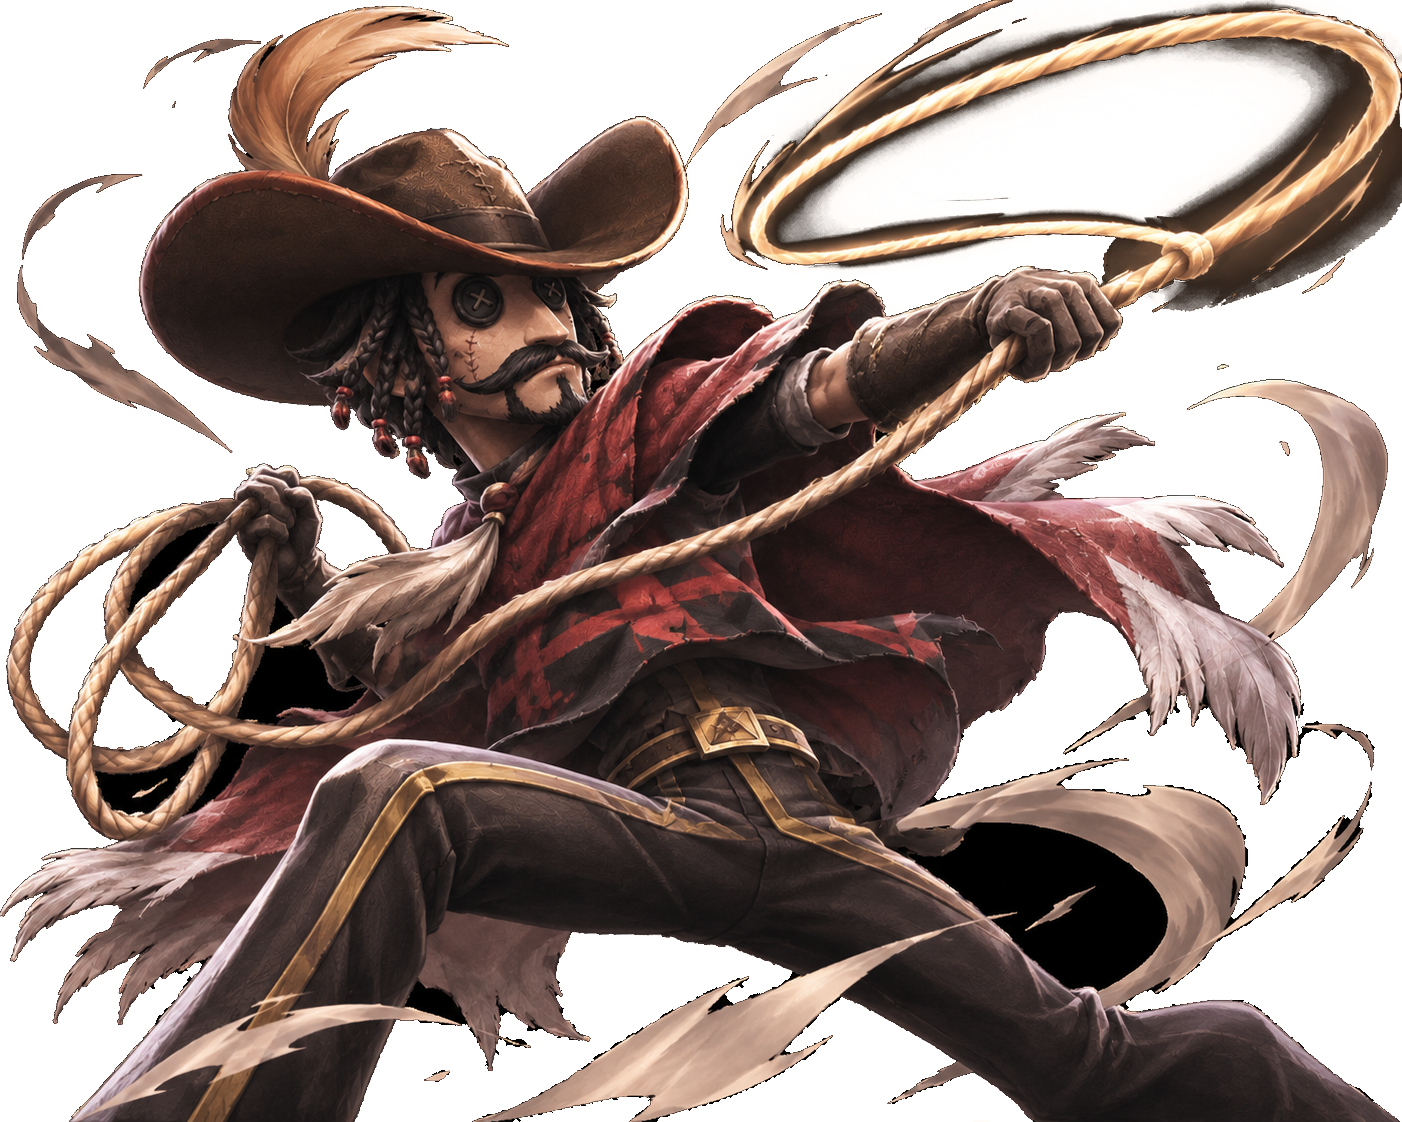
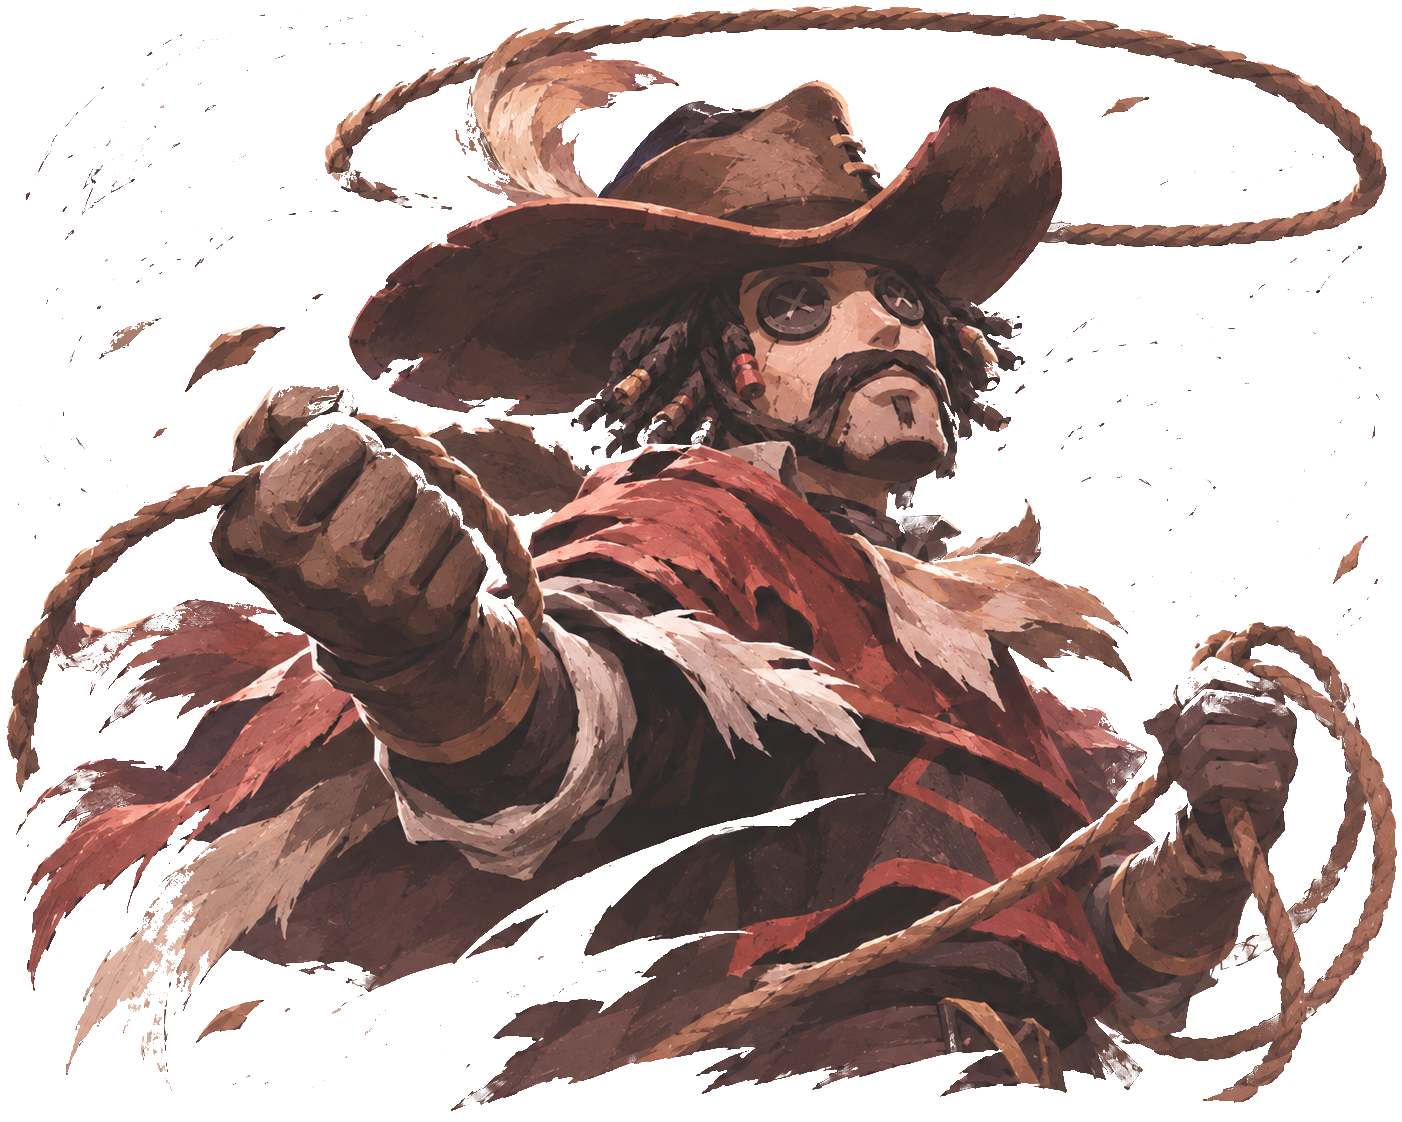
[FE] 카우보이 일러스트를 새 그림(원본 PNG)으로 바꿈 — 둘레에 날리는 흰 천 조각 효과는 빼고 누끼(IllustrationImporter StrongWhite: 더 세게 번지고 번진 곳은 색 없이 지움)

diff --git a/Assets/Scripts/UI/Editor/IllustrationImporter.cs b/Assets/Scripts/UI/Editor/IllustrationImporter.cs
@@ -14,6 +14,7 @@ namespace Project1.UI.Editor
         private const string Folder = "Assets/UI/Resources/Illustrations/";
 
         private static float SeedMin = 0.9f;  // 테두리에서 이 정도로 흰 픽셀부터 배경으로 본다
+        private static bool EraseFlooded; // true = 번진 배경을 색 없이 지움(StrongWhite 그림)
         private static float FloodMin = 0.45f; // 배경은 이보다 밝은 픽셀로만 번진다
         private static float FullMin = 0.8f;  // 이보다 밝으면 흰색을 완전히 뺀다(그 사이는 조금만)
         private static float MaxStep = 0.12f; // 이웃과 밝기 차가 이보다 크면(외곽선) 번지지 않는다
@@ -23,12 +24,13 @@ namespace Project1.UI.Editor
         // 얼굴이 아주 창백해 흰 배경과 거의 이어진 그림 — 살색 지키기를 켠다(분홍 연기·붉은 리본이 있는 그림에 켜면 그쪽이 덜 빠지므로 필요한 그림만).
         private static readonly HashSet<string> SkinProtectIds = new() { "Survivor_Doctor" };
         // 갇힌 흰 배경으로 볼 크기(픽셀 수)를 그림마다 다르게 — 사냥터지기: 흰 셔츠(넓음)는 남기고 쇠사슬 고리 속 작은 흰 구멍만 뺀다.
-        private static readonly Dictionary<string, (int min, int max)> EnclosedRanges = new() { ["Hunter_Gamekeeper"] = (20, int.MaxValue) };
+        private static readonly Dictionary<string, (int min, int max)> EnclosedRanges = new() { ["Hunter_Gamekeeper"] = (20, int.MaxValue), ["Survivor_Cowboy"] = (200, int.MaxValue) };
+        // 흰 배경 빼기를 더 세게(그림마다): 카우보이 — 둘레에 날리는 옅은 흰/분홍 천 조각 효과까지 배경으로 빼 버린다(사용자 요청).
+        private static readonly Dictionary<string, (float flood, float full, float step)> StrongWhite = new() { ["Survivor_Cowboy"] = (0.3f, 0.62f, 0.3f) };
         // 지킬 칸(그림 위쪽 기준 픽셀 x, y, 너비, 높이) — 사냥터지기: 이마(뿔 사이 흰 털)와 가슴의 흰 셔츠(목깃부터 허리띠 위까지).
         private static readonly Dictionary<string, RectInt[]> ProtectRects = new() { ["Hunter_Gamekeeper"] = new[] { new RectInt(452, 198, 150, 132), new RectInt(464, 330, 106, 60), new RectInt(410, 390, 300, 250) },
             // 검은 배경 그림: 배경에 붙은 검은 옷(칸 안에서는 새까만 배경만 빠짐)
             ["Hunter_Ripper"] = new[] { new RectInt(340, 20, 210, 270), new RectInt(330, 230, 480, 330), new RectInt(300, 560, 600, 562), new RectInt(810, 262, 400, 150) },
-            ["Survivor_Cowboy"] = new[] { new RectInt(150, 700, 1252, 422) },
             ["Survivor_MindsEye"] = new[] { new RectInt(420, 200, 490, 380), new RectInt(630, 540, 250, 200) }, // 머리카락·고글·목도리 매듭의 어두운 그늘
         };
         private const float PureWhite = 0.975f;  // 갇힌 흰 배경을 찾을 때: 이만큼 새하얀 픽셀이
@@ -94,7 +96,10 @@ namespace Project1.UI.Editor
                     return true;
                 }
                 var (encMin, encMax) = EnclosedRanges.TryGetValue(id, out var range) ? range : (EnclosedMinArea, int.MaxValue);
-                RemoveWhiteBackground(px, tex.width, tex.height, SkinProtectIds.Contains(id), encMin, encMax, ProtectRects.TryGetValue(id, out var keep) ? keep : null);
+                float flood0 = FloodMin, full0 = FullMin, step0 = MaxStep;
+                if (StrongWhite.TryGetValue(id, out var strong)) { FloodMin = strong.flood; FullMin = strong.full; MaxStep = strong.step; EraseFlooded = true; }
+                try { RemoveWhiteBackground(px, tex.width, tex.height, SkinProtectIds.Contains(id), encMin, encMax, ProtectRects.TryGetValue(id, out var keep) ? keep : null); }
+                finally { FloodMin = flood0; FullMin = full0; MaxStep = step0; EraseFlooded = false; }
                 tex.SetPixels32(px);
                 System.IO.File.WriteAllBytes(path, tex.EncodeToPNG());
                 AssetDatabase.ImportAsset(path, ImportAssetOptions.ForceUpdate);
@@ -192,6 +197,14 @@ namespace Project1.UI.Editor
                 float strength = Mathf.SmoothStep(0f, 1f, Mathf.InverseLerp(FloodMin, FullMin, lum[i]));
                 float a = Mathf.Lerp(1f, 1f - lum[i], strength);
                 var c = px[i];
+                if (EraseFlooded)
+                {
+                    // 번진 곳은 색을 남기지 않고 지운다(옅은 천 조각 효과까지) — 어두운 경계만 살짝 부드럽게
+                    a = 1f - Mathf.SmoothStep(0f, 1f, Mathf.InverseLerp(FloodMin, FloodMin + 0.06f, lum[i]));
+                    if (a <= 0.004f) { px[i] = new Color32(255, 255, 255, 0); continue; }
+                    px[i] = new Color32(c.r, c.g, c.b, (byte)Mathf.RoundToInt(a * c.a));
+                    continue;
+                }
                 if (a <= 0.004f) { px[i] = new Color32(255, 255, 255, 0); continue; }
                 byte Un(byte v) => (byte)Mathf.RoundToInt(Mathf.Clamp01((v / 255f - (1f - a)) / a) * 255f);
                 px[i] = new Color32(Un(c.r), Un(c.g), Un(c.b), (byte)Mathf.RoundToInt(a * c.a));

diff --git a/Assets/UI/Resources/Illustrations/README.md b/Assets/UI/Resources/Illustrations/README.md
@@ -15,7 +15,7 @@
 | 리퍼 | Hunter_Ripper.png | ✅ (1402×1122, 검은 배경 — 채팅 첨부본, 원본 PNG 오면 바꿈) |
 | 광대 | Hunter_SmileyFace.png | ✅ (1402×1122, 흰 배경) |
 | 공군 | Survivor_Coordinator.png | ✅ (1402×1122, 흰 배경) |
-| 카우보이 | Survivor_Cowboy.png | ✅ (1402×1122, 검은 배경) |
+| 카우보이 | Survivor_Cowboy.png | ✅ (1402×1122, 흰 배경 — 둘레 흰 천 조각 효과는 뺌) |
 | 의사 | Survivor_Doctor.png | ✅ (1402×1122, 흰 배경) |
 | 포워드 | Survivor_Forward.png | ✅ (1402×1122, 원본 투명 배경 그대로) |
 | 용병 | Survivor_Mercenary.png | |
